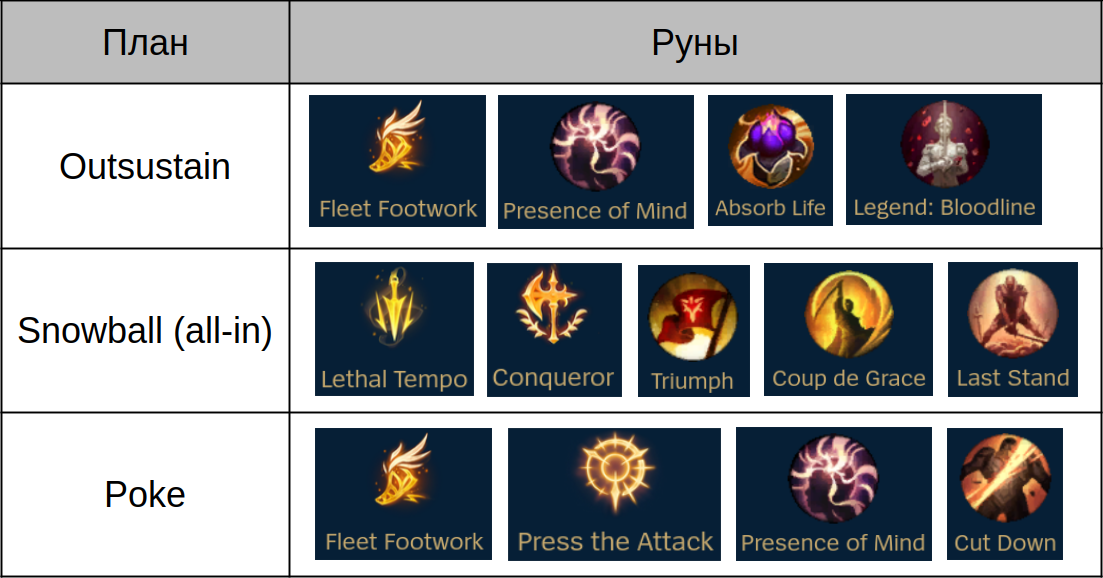
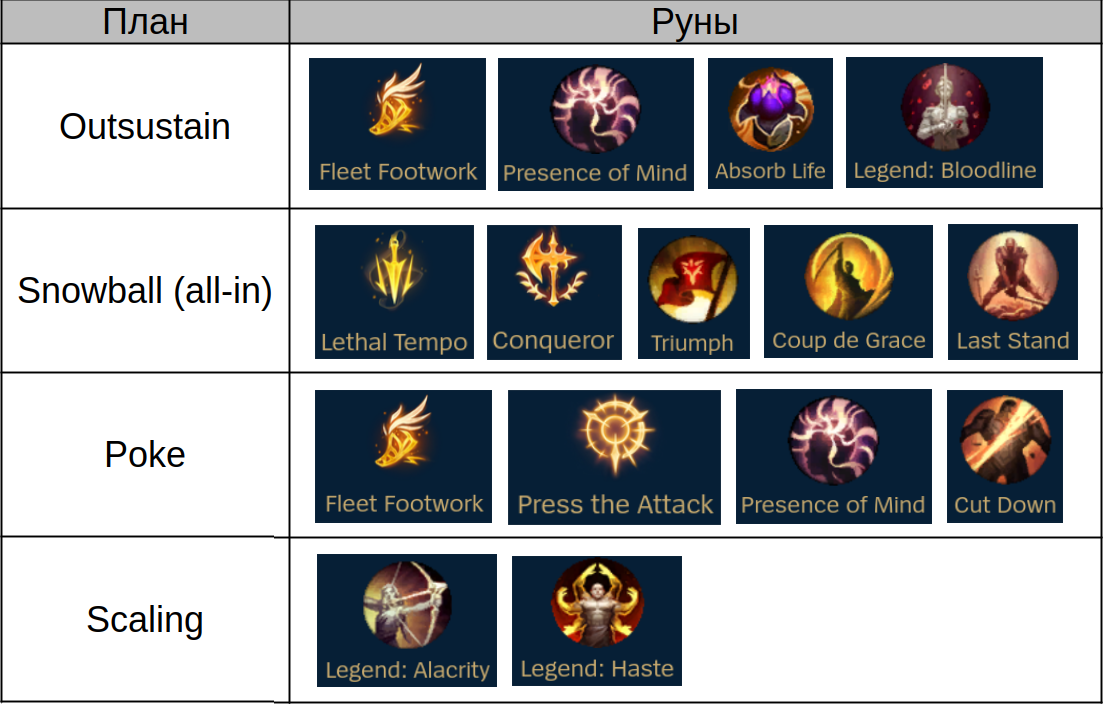
Review the "Build" section

diff --git a/manuscript/Macromanagement/build.md b/manuscript/Macromanagement/build.md
@@ -123,7 +123,7 @@ https://wiki.leagueoflegends.com/en-us/Gold_efficiency
 
 #### 4.5.1.2 Красная ветка Domination
 
->>>W
+>>>>W
 
 Иллюстрация 4-27 демонстрирует ветку рун Domination.
 
@@ -153,7 +153,7 @@ Ambessa.
 
 1. **Sixth Sense** (Шестое чувство) — помечает невидимый вражеский вард. Руна нужна для ранних инвейдов во вражеский лес, потому что помогает обходить варды.
 
-2. **Grisly Mementos** (Ужасные сувениры) — уменьшает время перезарядки вардов за убийства и ассисты противников. Руну часто берут саппорты на poke. Также её выбирает класс Assassin, чтобы сократить время перезарядки линзы.
+2. **Grisly Mementos** (Ужасные сувениры) — уменьшает время перезарядки вардов за убийства и ассисты противников. Руну часто берут саппорты на poke. Также её выбирает класс Assassin, чтобы сократить время перезарядки линзы. Это полезно для роам.
 
 3. **Deep Ward** (Глубинный тотем) — варды во вражеском лесу стоят дольше и имеют на 1 единицу здоровья больше. Руну часто берут чемпионы класса Enchanter Support.
 
@@ -165,8 +165,6 @@ Ambessa.
 
 3. **Ultimate Hunter** (Абсолютный охотник) — сокращает время перезарядки ультимативного умения. Руна для саппортов и Assassin с основным уроном от ультимативного умения. Примеры: Lux, Vel'Koz, Akali, Talon, Zed. Также её берут саппорты, которые не могут участвовать в командном сражении без ульты: Rakan,  Neeko, Morgana.
 
->>>
-
 Руны из веток Domination и Precision часто комбинируют. Они дают следующие сильные связки:
 
 1. **Electrocute** + **Sudden Impact** + **Cut down** — связка для ассасинов. Позволяет быстро пробить цель до низкого уровня здоровья и убить.
@@ -176,6 +174,11 @@ Ambessa.
 3. **Treasure Hunter** + **Triumph** — обе руны дают дополнительное золото за убийства. Связка хорошо работает на чемпионах для snowball. Обычно они сильны на первых уровнях и могут сделать несколько убийств.
 
 I> Подробнее руны красной ветки разбирает Oleg [в следующем видео](https://youtu.be/9ddMFLHyjCU?si=X4ai2cZqha6BvzIA&t=1050).
+
+Таблица 4-13 демонстрирует, какие руны подходят для разных планов на лейнинг.
+
+{caption: "Таблица 4-13. Руны ветки Domination для планов на лейнинг", width: "100%"}
+![Планы и ветка Domination](images/Macromanagement/domination-runes-plans.png)
 
 #### 4.5.1.3 Синяя ветка Sorcery
 
